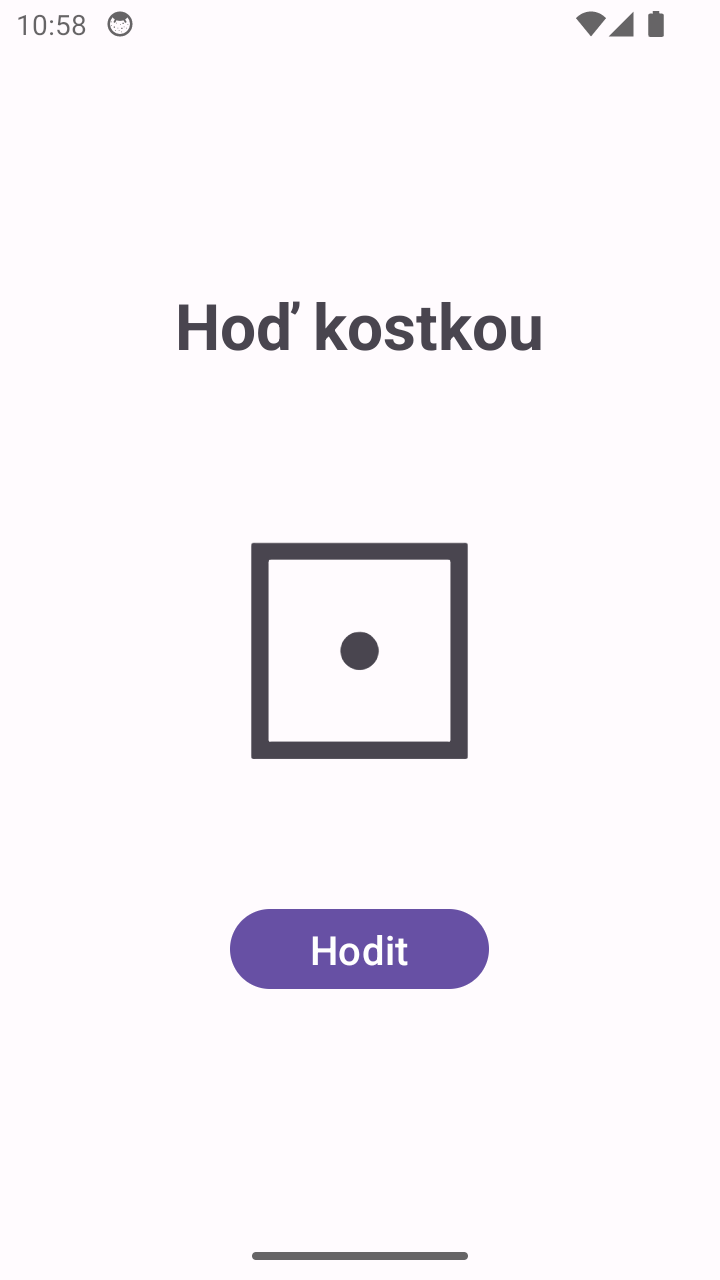
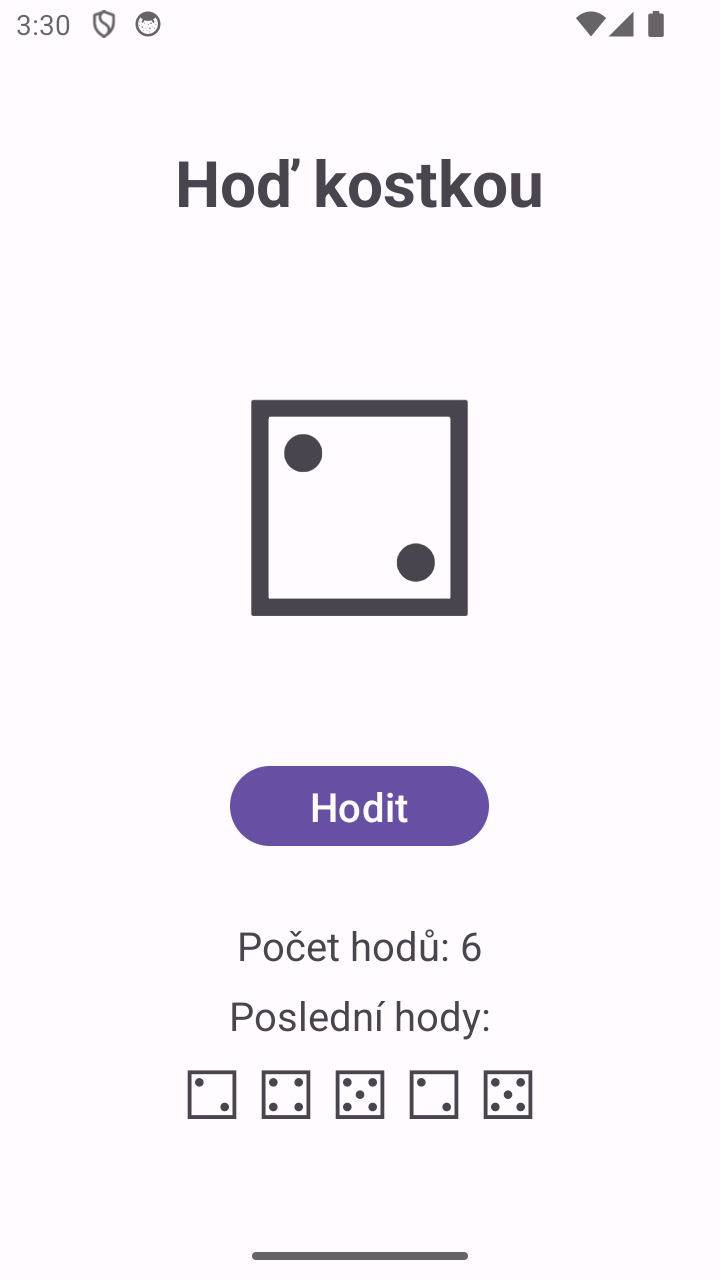
feature: addition of roll counter and history to xml version

diff --git a/MyApp003Xml/app/src/main/java/com/example/myapp003xml/MainActivity.kt b/MyApp003Xml/app/src/main/java/com/example/myapp003xml/MainActivity.kt
@@ -20,8 +20,17 @@ class MainActivity : AppCompatActivity() {
     private val animationSteps = 10
     private val stepDelayMs = 250L
 
+    // Kolik posledních hodů se ukazuje
+    private val historySize = 5
+
+    // Počet hodů a posledních pár výsledků (nejnovější první)
+    private var rollCount = 0
+    private var history = listOf<String>()
+
     private lateinit var tvDice: TextView
     private lateinit var btnRoll: Button
+    private lateinit var tvRollCount: TextView
+    private lateinit var tvHistory: TextView
 
     override fun onCreate(savedInstanceState: Bundle?) {
         super.onCreate(savedInstanceState)
@@ -49,7 +58,10 @@ class MainActivity : AppCompatActivity() {
         // Získání prvků z rozvržení podle ID
         tvDice = findViewById(R.id.tvDice)
         btnRoll = findViewById(R.id.btnRoll)
+        tvRollCount = findViewById(R.id.tvRollCount)
+        tvHistory = findViewById(R.id.tvHistory)
 
+        showStats()
         btnRoll.setOnClickListener { rollDice() }
     }
 
@@ -65,9 +77,21 @@ class MainActivity : AppCompatActivity() {
             }
 
             // Výsledný hod
-            tvDice.text = diceSymbols.random()
+            val result = diceSymbols.random()
+            tvDice.text = result
+
+            // Výsledek se přičte a přidá na začátek historie
+            rollCount++
+            history = (listOf(result) + history).take(historySize)
+            showStats()
 
             btnRoll.isEnabled = true
         }
+    }
+
+    // Vypsání počtu hodů a historie, texty se musí přepsat ručně
+    private fun showStats() {
+        tvRollCount.text = getString(R.string.roll_count, rollCount)
+        tvHistory.text = history.joinToString(" ")
     }
 }

diff --git a/MyApp003Xml/README.md b/MyApp003Xml/README.md
@@ -11,3 +11,7 @@ V XML verzi je kostka TextView `tvDice`, který si najdu přes `findViewById`. P
 V Compose verzi nic hledat nemusím. Kostka je proměnná `dice` uložená jako stav (`mutableStateOf`). Při hodu měním jen tuhle proměnnou a Compose obrazovku překreslí sám. Tlačítko má `enabled = !isRolling`, takže se vypne samo, když běží hod.
 
 Čekání 250 ms je v obou verzích přes korutinu a `delay()`, aby aplikace nezamrzla.
+
+## Vylepšení
+
+Přidal jsem počítadlo hodů a historii posledních 5 hodů, stejně jako v Compose verzi. Po každém hodu se počet zvýší o 1 a výsledek se přidá na začátek historie, starší hody nad 5 se zahodí. Rozdíl je v tom, že tady `rollCount` a `history` jsou obyčejné proměnné, takže po každé změně musím texty `tvRollCount` a `tvHistory` přepsat sám ve funkci `showStats()`.

diff --git a/README.md b/README.md
@@ -9,5 +9,6 @@
 
 - Úkol 003: Hoď kostkou ve dvou verzích
   - Aplikace 1: [MyApp003Xml](MyApp003Xml), XML layout + `findViewById`
-  - Aplikace 2: [MyApp003Compose](MyApp003Compose), Jetpack Compose, navíc počítadlo a historie hodů
+  - Aplikace 2: [MyApp003Compose](MyApp003Compose), Jetpack Compose
+  - Vylepšení v obou verzích: počítadlo hodů a historie posledních 5 hodů
   - Porovnání: v XML kostku přepisuju přímo v kódu (`tvDice.text = ...`), v Compose měním jen stav `dice` a obrazovka se překreslí sama. Podrobněji v README obou složek.
